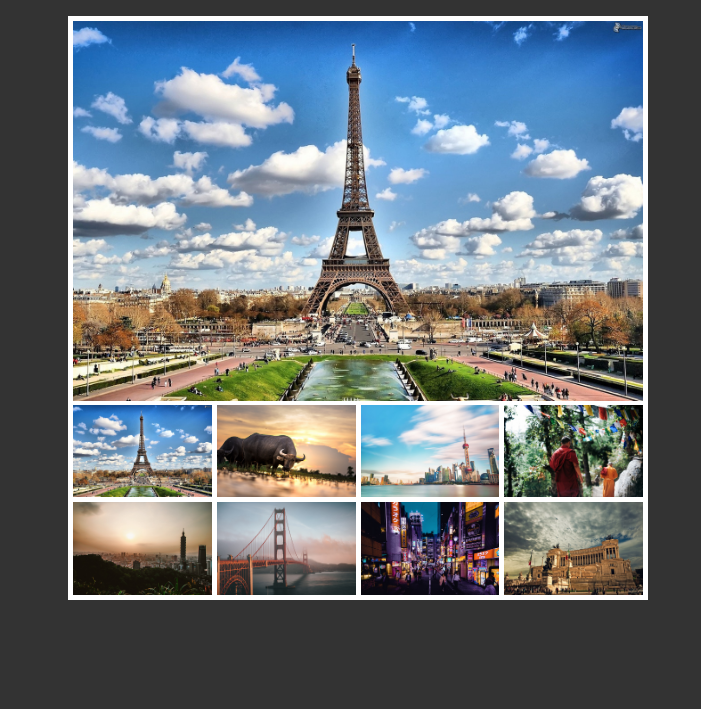
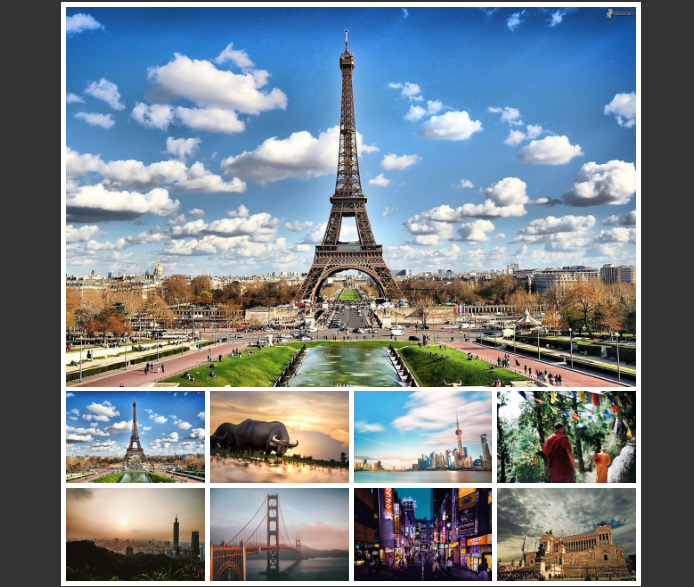
mobile styling

diff --git a/style.css b/style.css
@@ -145,6 +145,7 @@ main#home h1 {
   height: 100vh;
   overflow: hidden;
 }
+
 .menu-nav {
   margin: 0;
   padding: 0;
@@ -266,6 +267,7 @@ main#home h1 {
 
 .work-btn {
   padding: 6px 8px;
+  margin-bottom: 6px;
 }
 
 .work-btn:hover {
@@ -288,4 +290,38 @@ main#home h1 {
   background: #2b2b2b;
   color: #444;
   height: 60px;
+}
+@media (max-width: 500px) {
+  main {
+    align-items: center;
+    text-align: center;
+  }
+  .lg-heading {
+    line-height: 1;
+    margin-bottom: 1rem;
+  }
+  main#home h1 {
+    margin-top: 10vh;
+  }
+  .menu-nav,
+  .menu-branding {
+    float: none;
+
+    width: 100%;
+  }
+  .menu-branding {
+    height: 25vh;
+  }
+  .menu-nav {
+    height: 75vh;
+  }
+  .about-info {
+    grid-template-areas:
+      "bioimage"
+      "bio"
+      "job1"
+      "job2"
+      "job3";
+    grid-template-columns: 1fr;
+  }
 }
